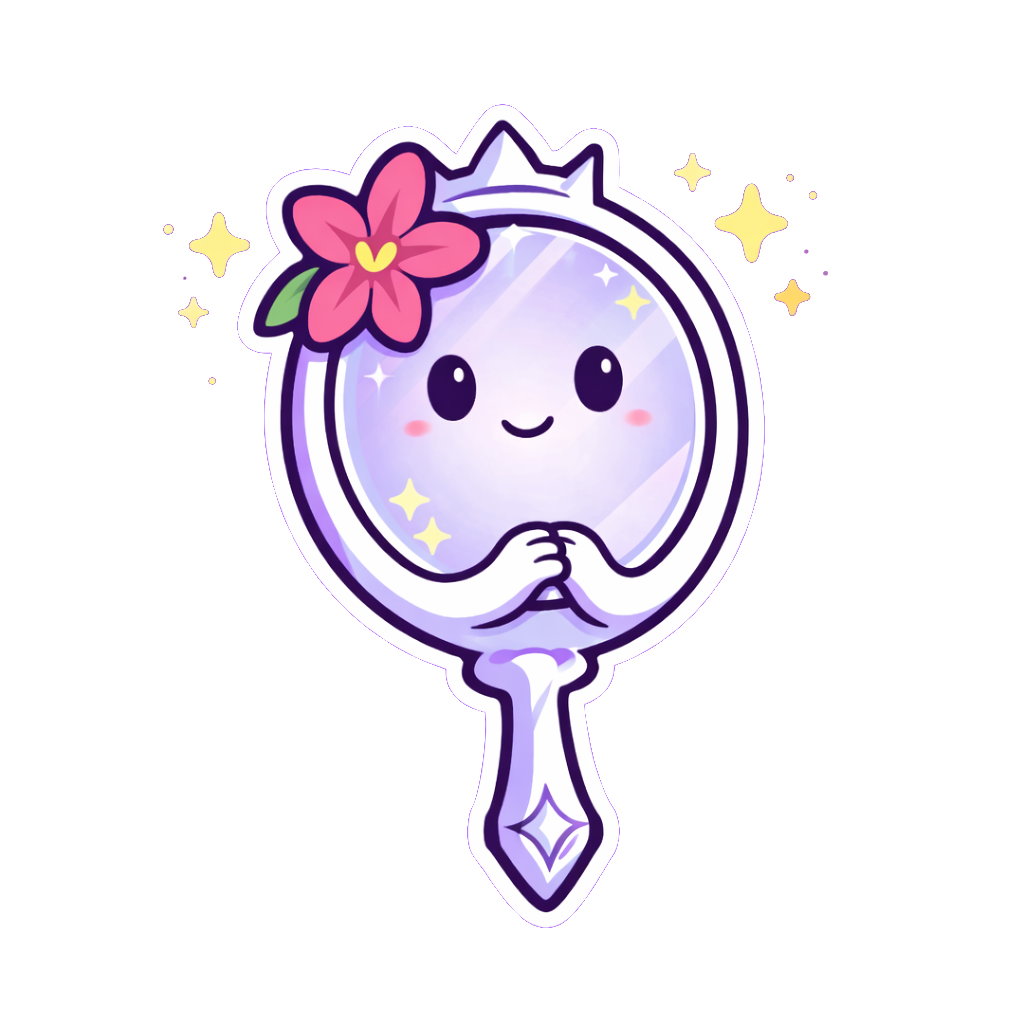
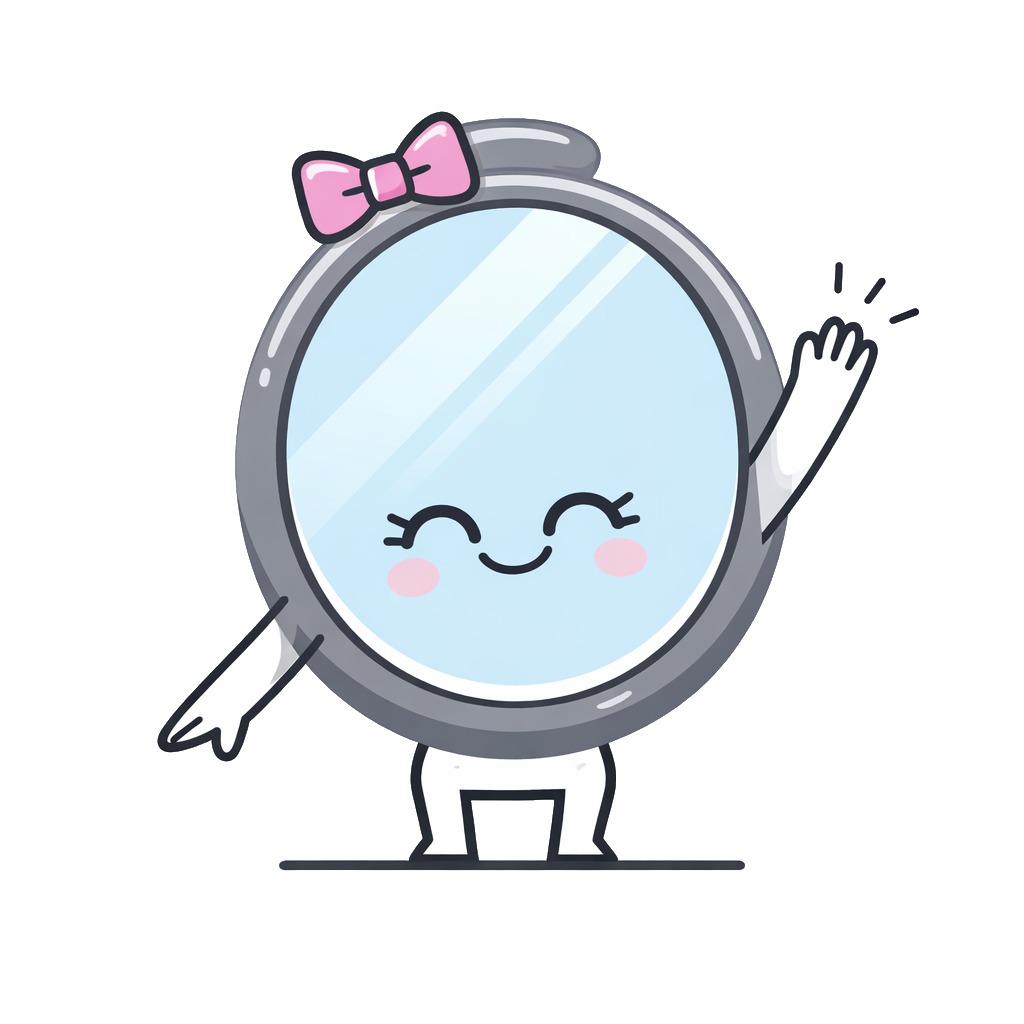
Refonte carte Journal (Soft UI) + Gestion InApp Browser

diff --git a/src/app/page.tsx b/src/app/page.tsx
@@ -3008,51 +3008,41 @@ PROCESO OBLIGATORIO:
 
 
             {/* Carte Mon Journal - Style Daily Challenge (Purple 3D) */}
-            <Card
-              className="border-none shadow-xl bg-[#a78bfa] text-white rounded-[2rem] cursor-pointer transition-all duration-300 hover:scale-[1.01] overflow-hidden relative min-h-[180px]"
+            {/* Carte Mon Journal - Redesign Soft UI/Cute */}
+            <div
               onClick={() => checkFeatureAccess('journal', () => setCurrentView('journal'))}
+              className="bg-[#E9D8FD] rounded-[2.5rem] p-6 relative h-[180px] overflow-hidden cursor-pointer transition-all duration-300 hover:scale-[1.02] active:scale-98 shadow-sm group"
             >
-              {/* Decorative 3D Shapes Simulation */}
-              <div className="absolute right-[-20px] top-1/2 -translate-y-1/2 w-48 h-48 pointer-events-none transform scale-90">
-                {/* Orange Ring/Cylinder */}
-                <div className="absolute right-10 top-0 w-20 h-20 rounded-full border-[12px] border-amber-400 transform rotate-45 shadow-lg" style={{ boxShadow: 'inset 0 0 20px rgba(0,0,0,0.2)' }}></div>
-                {/* Grey Cube-ish */}
-                <div className="absolute right-20 top-12 w-16 h-16 bg-gradient-to-br from-gray-400 to-gray-600 rounded-2xl transform -rotate-12 shadow-2xl z-10"></div>
-                {/* Purple Sphere */}
-                <div className="absolute right-4 top-16 w-14 h-14 bg-gradient-to-br from-violet-200 to-violet-400 rounded-full shadow-xl z-20"></div>
-                {/* Dark Cylinder */}
-                <div className="absolute right-24 top-4 w-16 h-16 bg-slate-700 rounded-full shadow-lg -z-10"></div>
-                {/* Yellow Ring */}
-                <div className="absolute right-12 bottom-0 w-12 h-12 border-[8px] border-yellow-300 rounded-full transform rotate-12"></div>
+              {/* Top Text */}
+              <h3 className="text-xl font-bold text-[#2D2a2e] max-w-[65%] leading-snug relative z-10">
+                {language === 'fr' ? 'Raconte ta journée & libère ton esprit' : language === 'en' ? 'Tell your day & free your mind' : 'Cuéntanos tu día y libera tu mente'}
+              </h3>
+
+              {/* Character Bottom Left - CSS Art */}
+              <div className="absolute bottom-[-20px] left-[-10px] transform rotate-[-5deg] transition-transform group-hover:rotate-0 duration-500">
+                <svg width="140" height="140" viewBox="0 0 140 140" fill="none" xmlns="http://www.w3.org/2000/svg">
+                  {/* Body */}
+                  <path d="M30 80 C 20 40, 60 20, 80 30 C 110 40, 130 70, 120 100 C 110 130, 60 140, 40 130 C 10 120, 20 100, 30 80 Z" fill="#F0ABFC" />
+                  {/* Face */}
+                  <circle cx="65" cy="85" r="3.5" fill="#000" />
+                  <circle cx="95" cy="85" r="3.5" fill="#000" />
+                  <path d="M68 100 Q 80 115 92 100" stroke="#000" strokeWidth="3.5" strokeLinecap="round" />
+                  {/* Hair curl */}
+                  <path d="M50 45 Q 40 25 60 30" stroke="#000" strokeWidth="3.5" strokeLinecap="round" fill="none" />
+                  <path d="M55 40 Q 50 20 65 25" stroke="#000" strokeWidth="3.5" strokeLinecap="round" fill="none" transform="translate(10, -5) rotate(20)" />
+                  {/* Cheeks */}
+                  <circle cx="58" cy="92" r="5" fill="#FAA2C1" opacity="0.6" />
+                  <circle cx="102" cy="92" r="5" fill="#FAA2C1" opacity="0.6" />
+                </svg>
               </div>
 
-              <CardContent className="p-6 relative z-10 h-full flex flex-col justify-center">
-                <div className="max-w-[60%]">
-                  <h3 className="text-3xl font-black leading-tight mb-2 text-white drop-shadow-sm">
-                    {language === 'fr' ? 'Mon Journal' : language === 'en' ? 'My Journal' : 'Mi Diario'}
-                  </h3>
-                  <p className="text-sm font-medium text-purple-100 mb-6">
-                    {language === 'fr' ? 'Notez vos pensées avant 21h' : language === 'en' ? 'Write your thoughts before 9 PM' : 'Escribe tus pensamientos antes de las 9 PM'}
-                  </p>
-
-                  {/* Avatars / Users */}
-                  <div className="flex items-center -space-x-3">
-                    <div className="w-8 h-8 rounded-full border-2 border-[#a78bfa] bg-pink-300 flex items-center justify-center text-[10px] overflow-hidden">
-                      <img src="https://api.dicebear.com/7.x/avataaars/svg?seed=Felix" alt="User" />
-                    </div>
-                    <div className="w-8 h-8 rounded-full border-2 border-[#a78bfa] bg-blue-300 flex items-center justify-center text-[10px] overflow-hidden">
-                      <img src="https://api.dicebear.com/7.x/avataaars/svg?seed=Aneka" alt="User" />
-                    </div>
-                    <div className="w-8 h-8 rounded-full border-2 border-[#a78bfa] bg-emerald-300 flex items-center justify-center text-[10px] overflow-hidden">
-                      <img src="https://api.dicebear.com/7.x/avataaars/svg?seed=Milo" alt="User" />
-                    </div>
-                    <div className="w-8 h-8 rounded-full border-2 border-[#a78bfa] bg-white flex items-center justify-center text-xs font-bold text-violet-600">
-                      +{Math.max(0, journalEntries.length)}
-                    </div>
-                  </div>
+              {/* Button Bottom Right */}
+              <div className="absolute bottom-6 right-6">
+                <div className="bg-black text-white text-xs font-bold py-3 px-6 rounded-full shadow-lg flex items-center gap-2 group-hover:scale-105 transition-transform">
+                  {language === 'fr' ? 'Écrire' : language === 'en' ? 'Write' : 'Escribir'}
                 </div>
-              </CardContent>
-            </Card>
+              </div>
+            </div>
 
             {/* Carte 50 choses à faire seule - MASQUÉE */}
             {/* <Card

diff --git a/src/components/shared/InAppBrowserHandler.tsx b/src/components/shared/InAppBrowserHandler.tsx
@@ -1,0 +1,124 @@
+'use client';
+
+import { useEffect, useState } from 'react';
+import { ExternalLink, Smartphone, Copy, Check } from 'lucide-react';
+import { Button } from '@/components/ui/button';
+import { useTranslation } from '@/lib/useTranslation';
+
+export const InAppBrowserHandler = () => {
+    const [isInAppBrowser, setIsInAppBrowser] = useState(false);
+    const [copied, setCopied] = useState(false);
+    const { t } = useTranslation();
+
+    useEffect(() => {
+        const userAgent = navigator.userAgent || navigator.vendor || (window as any).opera;
+
+        // Liste des in-app browsers connus
+        const inAppRules = [
+            'Instagram',
+            'Pinterest',
+            'FBAN',
+            'FBAV', // Facebook
+            'Line',
+            'Twitter',
+            'LinkedIn',
+            'Snapchat',
+            'TikTok'
+        ];
+
+        const isInApp = inAppRules.some(rule => userAgent.includes(rule));
+
+        if (isInApp) {
+            setIsInAppBrowser(true);
+
+            // Tentative de redirection automatique pour Android
+            const isAndroid = /android/i.test(userAgent);
+            if (isAndroid) {
+                // Essayer d'ouvrir dans Chrome via intent
+                const url = window.location.href;
+                const intentUrl = `intent://${url.replace(/^https?:\/\//, '')}#Intent;scheme=https;package=com.android.chrome;end`;
+
+                // Fallback simple: essayer d'ouvrir une nouvelle fenêtre
+                // window.open(url, '_system'); 
+
+                // Redirection via intent
+                window.location.href = intentUrl;
+            }
+        }
+    }, []);
+
+    const copyToClipboard = () => {
+        navigator.clipboard.writeText(window.location.href);
+        setCopied(true);
+        setTimeout(() => setCopied(false), 2000);
+    };
+
+    if (!isInAppBrowser) return null;
+
+    return (
+        <div className="fixed inset-0 z-[100] bg-black/80 backdrop-blur-sm flex items-end sm:items-center justify-center p-4">
+            <div className="bg-white rounded-t-[2rem] sm:rounded-[2rem] w-full max-w-md p-6 shadow-2xl animate-in slide-in-from-bottom-10 fade-in duration-300">
+                <div className="flex flex-col items-center text-center space-y-4">
+
+                    <div className="w-16 h-16 rounded-2xl bg-gradient-to-br from-rose-100 to-pink-100 flex items-center justify-center shadow-inner mb-2">
+                        <ExternalLink className="w-8 h-8 text-rose-500" />
+                    </div>
+
+                    <h2 className="text-xl font-bold text-gray-800">
+                        Ouvrir dans le navigateur
+                    </h2>
+
+                    <p className="text-sm text-gray-600 leading-relaxed max-w-xs mx-auto">
+                        Pour une meilleure expérience (payement, connexion), ouvrez l'application dans votre navigateur externe (Safari ou Chrome).
+                    </p>
+
+                    <div className="w-full bg-gray-50 rounded-xl p-4 border border-gray-100 mt-4 space-y-3">
+                        <div className="flex items-center gap-3 text-left">
+                            <div className="w-8 h-8 rounded-full bg-white flex items-center justify-center shadow-sm text-lg font-bold text-gray-400 border border-gray-100 shrink-0">
+                                1
+                            </div>
+                            <p className="text-sm text-gray-700">
+                                Appuyez sur les <span className="font-bold">...</span> ou le bouton de partage en haut/bas de l'écran
+                            </p>
+                        </div>
+
+                        <div className="flex items-center gap-3 text-left">
+                            <div className="w-8 h-8 rounded-full bg-white flex items-center justify-center shadow-sm text-lg font-bold text-gray-400 border border-gray-100 shrink-0">
+                                2
+                            </div>
+                            <p className="text-sm text-gray-700">
+                                Sélectionnez <span className="font-bold">Ouvrir dans le navigateur</span>
+                            </p>
+                        </div>
+                    </div>
+
+                    <div className="relative w-full">
+                        <div className="absolute inset-0 flex items-center">
+                            <span className="w-full border-t border-gray-100" />
+                        </div>
+                        <div className="relative flex justify-center text-xs uppercase">
+                            <span className="bg-white px-2 text-gray-400">Ou copier le lien</span>
+                        </div>
+                    </div>
+
+                    <Button
+                        onClick={copyToClipboard}
+                        variant="outline"
+                        className="w-full h-12 rounded-xl border-gray-200 hover:bg-gray-50 hover:text-rose-600 transition-colors flex items-center gap-2"
+                    >
+                        {copied ? <Check className="w-4 h-4" /> : <Copy className="w-4 h-4" />}
+                        {copied ? 'Lien copié !' : 'Copier le lien'}
+                    </Button>
+
+                    <button
+                        onClick={() => setIsInAppBrowser(false)}
+                        className="text-xs text-gray-400 hover:text-gray-600 underline mt-4"
+                    >
+                        Continuer quand même dans l'app
+                    </button>
+
+                </div>
+            </div>
+        </div>
+    );
+};

diff --git a/src/app/layout.tsx b/src/app/layout.tsx
@@ -3,6 +3,7 @@ import { Playfair_Display, Inter } from "next/font/google";
 import "./globals.css";
 import { Toaster } from "@/components/ui/toaster";
 import { AuthProvider } from "@/contexts/AuthContext";
+import { InAppBrowserHandler } from "@/components/shared/InAppBrowserHandler";
 
 const playfairDisplay = Playfair_Display({
   variable: "--font-playfair-display",
@@ -83,6 +84,7 @@ export default function RootLayout({
         className={`${playfairDisplay.variable} ${inter.variable} antialiased bg-background text-foreground`}
       >
         <AuthProvider>
+          <InAppBrowserHandler />
           {children}
           <Toaster />
         </AuthProvider>
